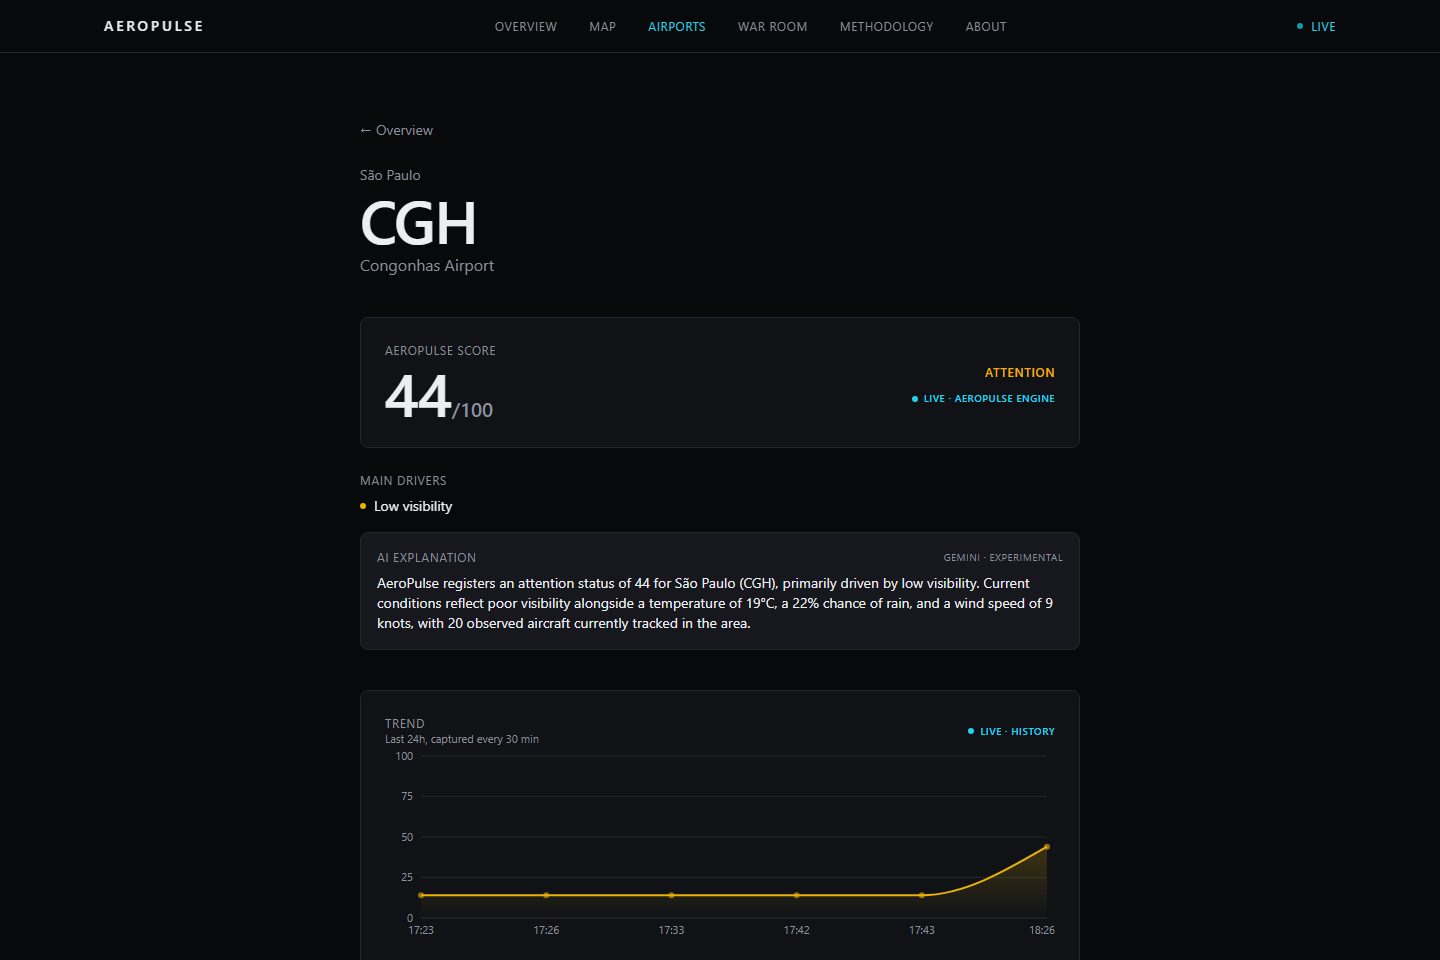
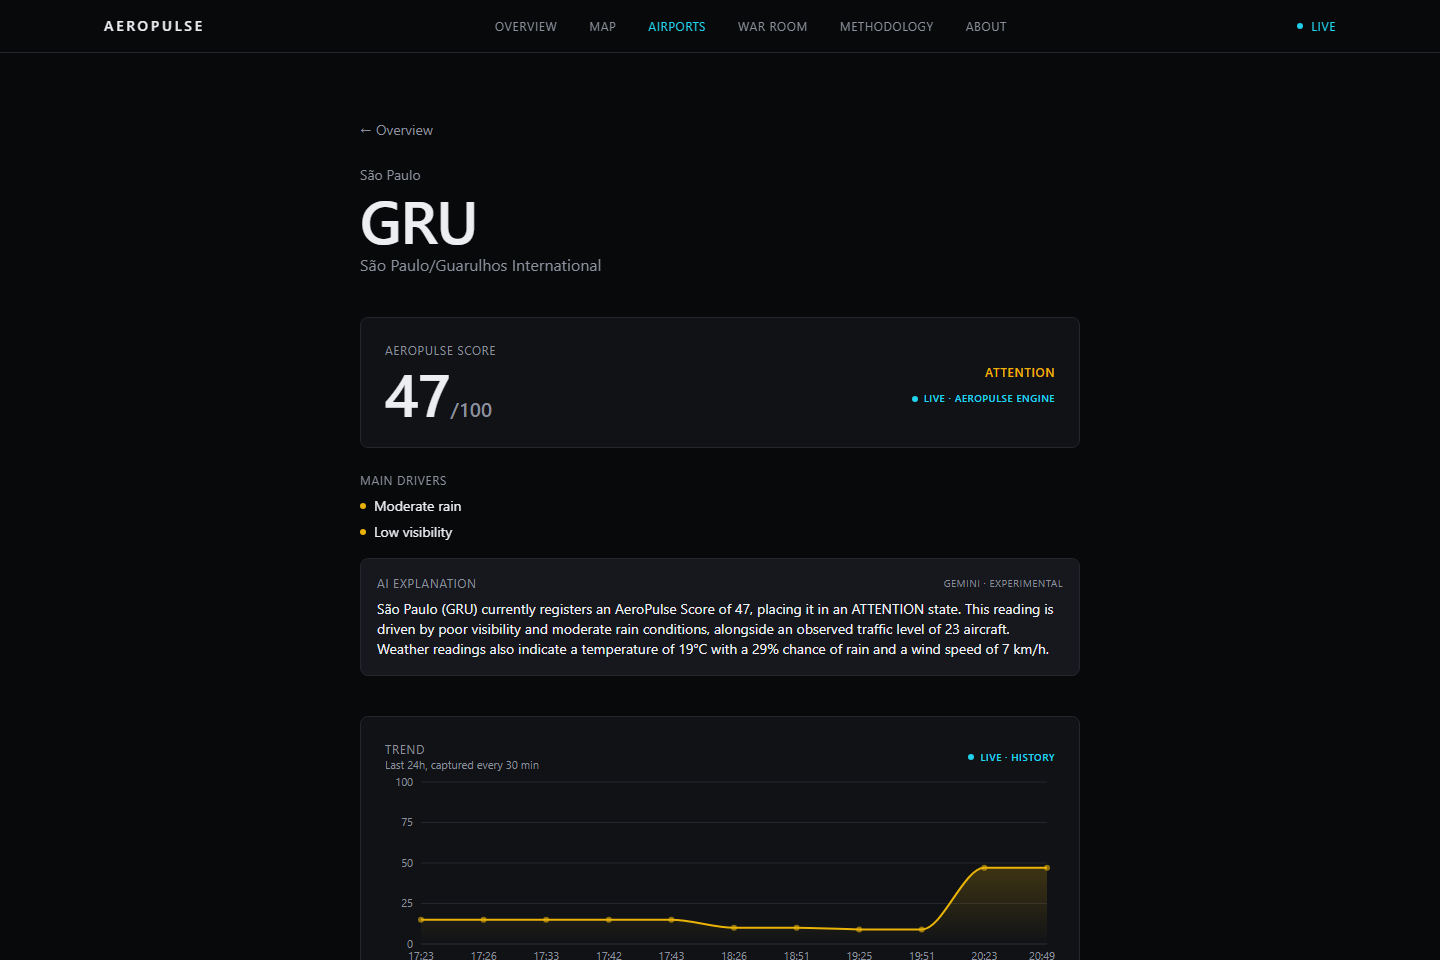
Migrate deploy from Netlify to Vercel
Netlify blocked all deploys (CLI and its own GitHub-triggered builds
alike) with "account credit usage exceeded" on a same-day-created
account — confirmed via the raw API response, not just the CLI's
generic Forbidden error. Not something fixable from the code side, so
moving to Vercel instead (the original recommendation, before an
existing manual Netlify deploy changed the plan).

- api/traffic.ts, api/explain.ts replace the Netlify Functions,
  adapted to Vercel's `export default { fetch(request) }` convention.
  traffic.ts keeps the same logic (read latest Supabase snapshot
  instead of calling OpenSky directly — still stalls from serverless
  cloud IPs regardless of provider).
- vercel.json adds the SPA fallback rewrite, explicitly excluding
  /api/* so it can't mask a real API error the way Netlify's
  equivalent rule once did.
- Hit a real runtime bug specific to Vercel's Node.js module
  resolution: relative imports need an explicit .js extension even
  though the source is .ts (TypeScript's node16/nodenext convention —
  Vite tolerates a bare or .ts-suffixed import, Node's own loader
  doesn't). Diagnosed via `vercel logs`, which showed the actual
  ERR_MODULE_NOT_FOUND — the build log's TS errors alone weren't
  enough to explain the 500.
- Removed the Netlify-specific files instead of leaving them dormant.

Live at https://aeropulse-eight.vercel.app — verified end-to-end
(map, live weather/traffic, AI explanation, direct route navigation).

diff --git a/api/traffic.ts b/api/traffic.ts
@@ -1,0 +1,37 @@
+/// <reference types="node" />
+import { createClient } from "@supabase/supabase-js";
+
+/**
+ * Serves the latest observed-aircraft count per airport from Supabase
+ * (captured every 30 min by the GitHub Actions snapshot job) rather than
+ * calling OpenSky directly. Same rationale as the Netlify version this
+ * replaced: OpenSky stalls/throttles when called from shared cloud IP
+ * ranges (verified empirically — ~1s from a residential connection,
+ * ~11s/timeout from a serverless function). GitHub Actions runners reach
+ * OpenSky fine, so that existing job stays the source of truth.
+ */
+export default {
+  async fetch() {
+    try {
+      const supabase = createClient(process.env.VITE_SUPABASE_URL!, process.env.VITE_SUPABASE_ANON_KEY!);
+      const since = new Date(Date.now() - 60 * 60 * 1000).toISOString();
+
+      const { data, error } = await supabase
+        .from("signal_snapshots")
+        .select("airport_iata, observed_aircraft, captured_at")
+        .gte("captured_at", since)
+        .order("captured_at", { ascending: false });
+
+      if (error) throw new Error(error.message);
+
+      const counts: Record<string, number> = {};
+      for (const row of data ?? []) {
+        if (!(row.airport_iata in counts)) counts[row.airport_iata] = row.observed_aircraft;
+      }
+
+      return Response.json(counts);
+    } catch (err) {
+      return Response.json({ error: (err as Error).message }, { status: 502 });
+    }
+  },
+};

diff --git a/api/explain.ts b/api/explain.ts
@@ -1,0 +1,18 @@
+import { explainSignal } from "../server/geminiClient.js";
+import type { ExplainPayload } from "../src/types/explain.js";
+
+export default {
+  async fetch(request: Request) {
+    if (request.method !== "POST") {
+      return new Response(null, { status: 405 });
+    }
+
+    try {
+      const input = (await request.json()) as ExplainPayload;
+      const explanation = await explainSignal(input);
+      return Response.json({ explanation });
+    } catch (err) {
+      return Response.json({ error: (err as Error).message }, { status: 502 });
+    }
+  },
+};

diff --git a/server/geminiClient.ts b/server/geminiClient.ts
@@ -1,3 +1,4 @@
+/// <reference types="node" />
 import type { ExplainPayload } from "../src/types/explain.ts";
 
 // "-latest" alias so this keeps working as Google rotates the underlying

diff --git a/README.md b/README.md
@@ -3,7 +3,7 @@
 **Experimental Aviation Intelligence Platform** — cross-references live weather, observed air
 traffic, and historical trends for major Brazilian airports into a transparent, explainable signal.
 
-🔗 **Live:** [majestic-dodol-fc3c9f.netlify.app](https://majestic-dodol-fc3c9f.netlify.app)
+🔗 **Live:** [aeropulse-eight.vercel.app](https://aeropulse-eight.vercel.app)
 
 ![AeroPulse home screen — map of Brazil with monitored airports](docs/screenshots/home.png)
 
@@ -45,7 +45,7 @@ Gemini      ─┘                                    └─ AI Explain Signal
   past serverless function time limits when called from cloud IP ranges. A GitHub Actions job
   captures weather + traffic + score for every airport every 30 minutes into Supabase; the site
   reads the latest snapshot instead of calling OpenSky live.
-- **AI explanation** — a Netlify Function forwards the *already-computed* score/drivers/weather to
+- **AI explanation** — a Vercel Function forwards the *already-computed* score/drivers/weather to
   Gemini and returns 2–4 sentences of plain-language explanation. The model is instructed to explain
   only the given data — never to invent a driver or predict operations.
 - No traditional backend/database server — just a static React app, two small serverless functions,
@@ -74,7 +74,7 @@ Full writeup, including status bands, lives on the site's `/methodology` page.
 ## Tech stack
 
 Vite · React · TypeScript · Tailwind CSS v4 · MapLibre GL JS · Recharts · Supabase · GitHub Actions
-· Netlify Functions · Google Gemini API
+· Vercel Functions · Google Gemini API
 
 Chosen by problem, not by popularity — see the data sources table above for why each one is there.
 
@@ -102,8 +102,8 @@ breaking.
 - Air traffic is a count of aircraft within 50km of an airport, not verified arrivals/departures.
 - History only goes back to when the GitHub Action started running — trend charts before that show
   an illustrative example shape instead, clearly labeled as mock.
-- Anonymous OpenSky access has a daily credit budget; if it's exhausted, traffic falls back to the
-  last known snapshot rather than failing.
+- Traffic numbers are as fresh as the last GitHub Actions snapshot (≤30 min), not instant — OpenSky
+  stalls when called directly from serverless functions, so the site reads Supabase instead.
 
 ## Roadmap
 
